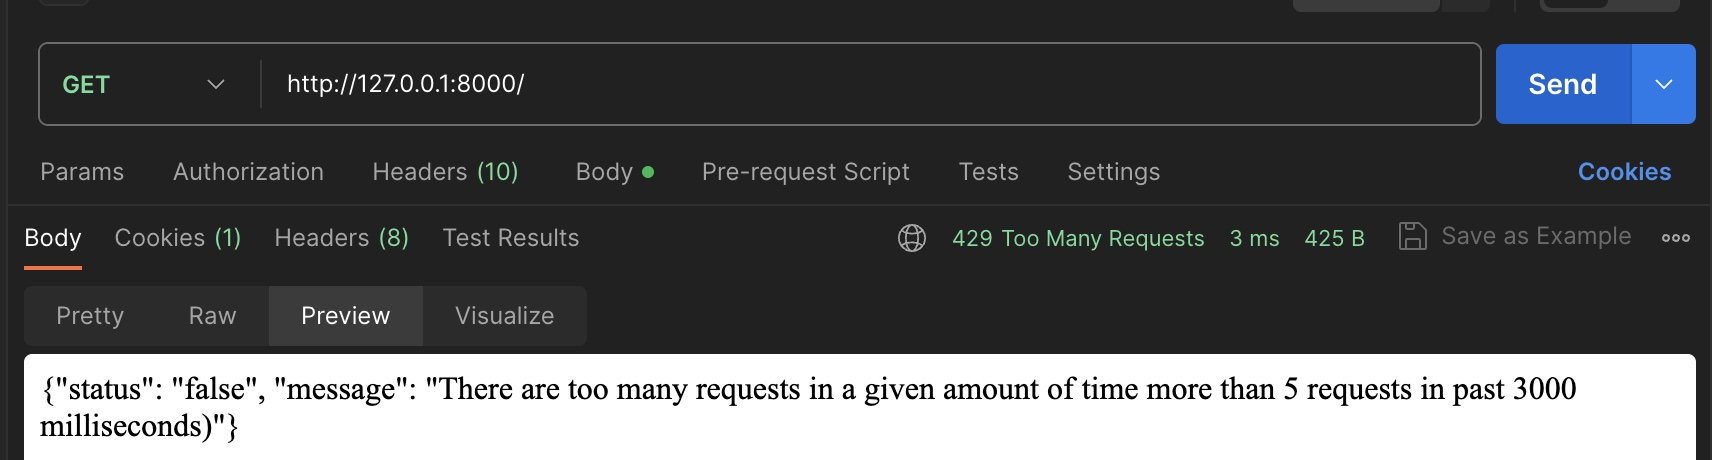
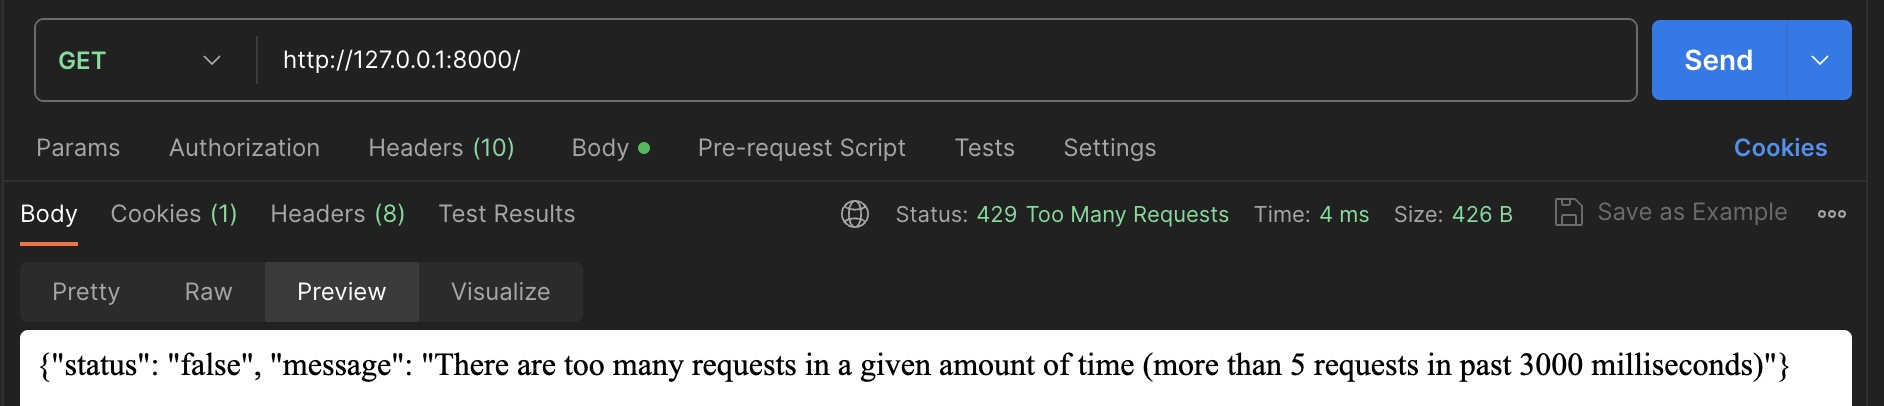
modify readme and some messages.

diff --git a/RateLimiter/utils/rate_limiter.py b/RateLimiter/utils/rate_limiter.py
@@ -39,7 +39,7 @@ def rate_limiter_dec(func):
                     'status':
                         'false',
                     'message':
-                        f'There are too many requests in a given amount of time more than {rate_limiter.request_limit} '
+                        f'There are too many requests in a given amount of time (more than {rate_limiter.request_limit} '
                         f'requests in past {rate_limiter.time_range} milliseconds)'
                 }
                 return JsonResponse(data_dict, status=HTTPStatus.TOO_MANY_REQUESTS)
